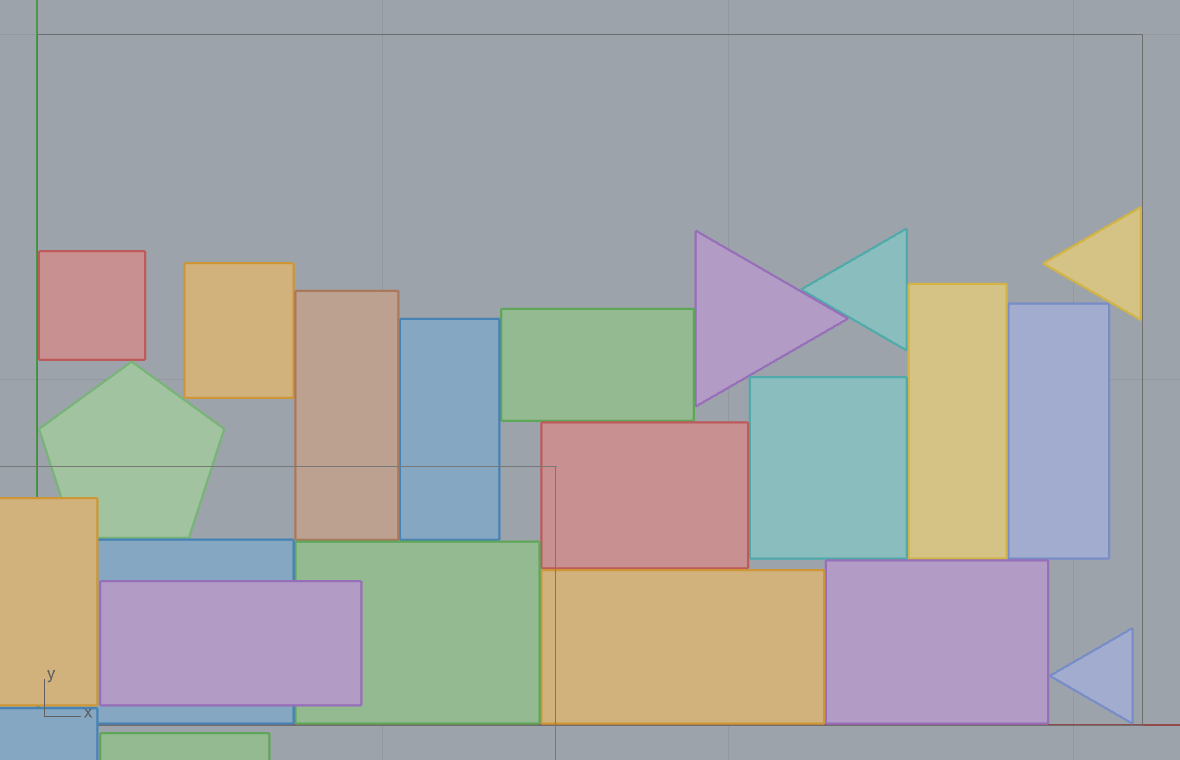
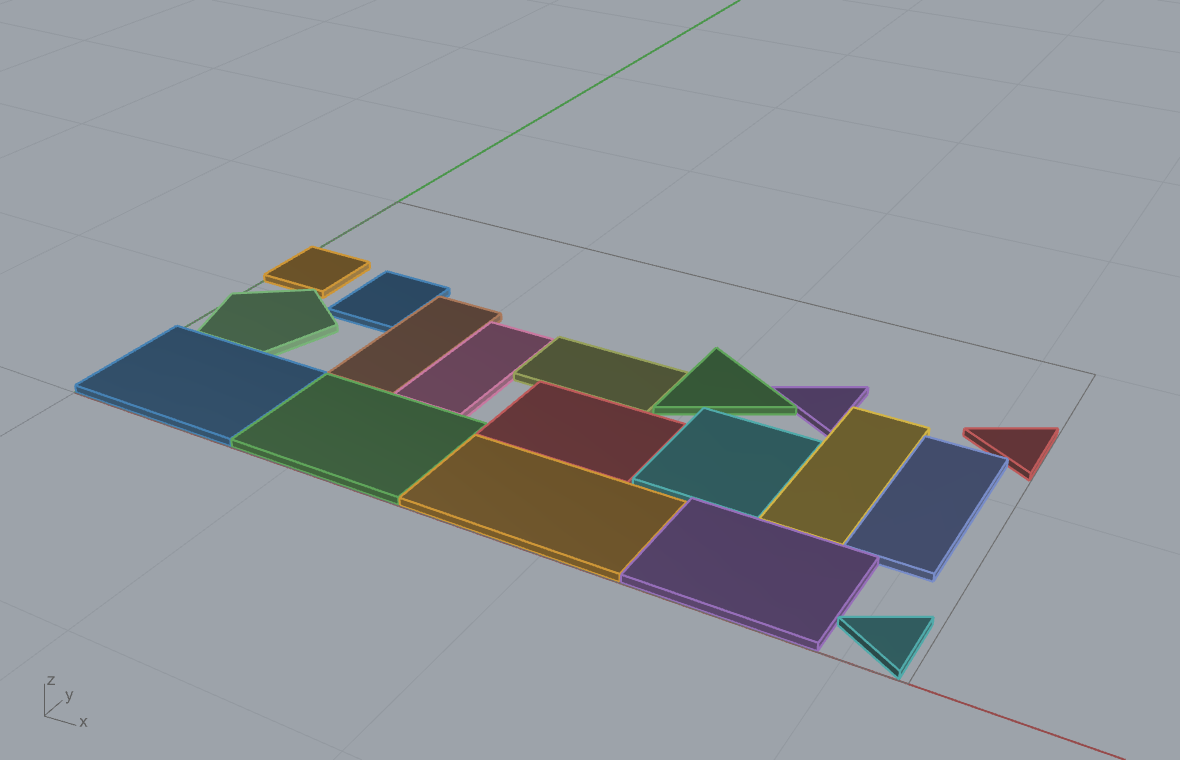
fix(examples): 2D opaque re-render + Kintsugi crack-interface display (post-restart)
After the system restart, addressed the user's feedback:
- 2D nest: re-measured the live FreeNestX output = 18/18 placed, total overlap
  area 0.0, boundary spill 0.0. The algorithm is CLEAN; the apparent overlaps in
  the old PNG were a translucent flat-tile render artifact. Re-rendered as opaque
  30 mm extruded slab tiles so it reads unambiguously (no fake overlap, all
  inside the 3.2x2.0 m sheet).
- Kintsugi: turned OFF auto-scale (natural network scale, base z=0). The "stacked
  on top of each other" look was Mesh Style 1 convex hulls interpenetrating at the
  concave fracture. Switched the display to the two fragment POINT CLOUDS (gold
  neck + blue body) which honestly show the fragments MEETING at the crack
  interface; re-ran Port mode at Mesh Style 3 (2/2 placed, verifier 0.707 STRONG).
  Updated .gh / .3dm / .png / README + galleries.

diff --git a/examples/14_kintsugi/README.md b/examples/14_kintsugi/README.md
@@ -1,6 +1,14 @@
 # Example 14 - Kintsugi fracture reassembly (Breaking Bad parity data, Port mode)
 
-> **Scale, units, position (corrected 2026-06-06):** MILLIMETERS. Reassembled vessel ~100-220 x 280 mm (the Breaking Bad shape is slender), base on z=0, centred in XY. Geometric tolerance 0.1 mm (= scan-noise floor); seam 1-3 mm; no kerf (restoration, not cutting). The Port-mode network runs in normalized space; the shipped result is scaled to vessel size for display. See `../../wiki/research/tolerances_dimensions_slm_roses.md`.
+> **Scale, units, display (corrected 2026-06-06):** AUTO-SCALE OFF. The Port-mode network works in
+> normalized space, so the reassembly is shown at the network's NATURAL scale (~0.24 x 0.24 x 1.0 units),
+> base on z=0, centred in XY. No per-fragment rescale (rescaling made the two fragments read as stacked
+> instead of meeting at the crack). DISPLAY = the two fragment POINT CLOUDS (1000 pts each) at the assembled
+> poses, coloured per fragment (gold neck + blue body): the Breaking Bad data is point clouds, so a mesh
+> display either interpenetrates (convex hull / Mesh Style 1) or is noisy (bbox-pulled / Mesh Style 3); the
+> point clouds are the honest display and clearly show the two fragments MEETING at the fracture interface.
+> Geometric tolerance 0.1 mm-class (scan-noise floor); no kerf (restoration, not cutting). See
+> `../../wiki/research/tolerances_dimensions_slm_roses.md`.
 
 
 Reassemble fractured fragments into the original solid by matching fracture surfaces. This is the

diff --git a/docs/results/RESULTS.md b/docs/results/RESULTS.md
@@ -24,7 +24,7 @@ basis in `../../wiki/research/tolerances_dimensions_slm_roses.md`.
 | Surfaces from a solid (mm) | Trencadis on the twist (mm) | Kintsugi reassembly (mm) |
 |---|---|---|
 | ![surf](../../examples/13_surface_mapping/13_surface_segments.png) | ![clad](../../examples/13_surface_mapping/13_surface_trencadis.png) | ![kintsugi](../../examples/14_kintsugi/14_kintsugi_result.png) |
-| 1.2x1.2x3.5 m monument, 6 surfaces (CGAL angle split) | 408 cladding shards, 4 mm grout | ~280 mm vessel, 2/2 placed, verifier 0.71 STRONG |
+| 1.2x1.2x3.5 m monument, 6 surfaces (CGAL angle split) | 408 cladding shards, 4 mm grout | 2 fragments meet at the crack (point-cloud display), verifier 0.71 STRONG |
 
 ## Do they work at their scales? Yes, and they are performant
 Verified live at each example's physical scale (doc units meters for site/quarry, millimetres for shop):
@@ -35,7 +35,7 @@ Verified live at each example's physical scale (doc units meters for site/quarry
 | 3D quarry block | 3.0x1.5x1.5 m | 12/12 packed | < 0.1 s |
 | Trencadis mosaic | 1100 mm | 100/100 placed | ~0.26 s |
 | Surface segmentation | 1.2x1.2x3.5 m | 6 surfaces | ~0.01 s |
-| Kintsugi (Port mode) | ~280 mm | 2/2, verifier 0.71 | ~30 s (GPU diffusion, by design) |
+| Kintsugi (Port mode) | natural (auto-scale off) | 2/2 fragments joined at crack, verifier 0.71 | ~30 s (GPU diffusion, by design) |
 
 Performance is scale-robust: the NFP / Clipper cost is driven by vertex count, not coordinate magnitude,
 and the integer scaling is int64-safe at both metre and millimetre scale near the origin. The component

diff --git a/examples/README.md b/examples/README.md
@@ -26,7 +26,7 @@ fresh `data/` link. Open them in Rhino 8 + Grasshopper with the Frahan `.gha` de
 | `11_pack3d/` | 3D block packing (Block Pack Tree, Kim 2025 guillotine) | quarry block subdivision, saw-cuttable | synthetic elements (in the .gh); METERS, block 3.0x1.5x1.5 m |
 | `12_trencadis/` | Trencadis mosaic (Catalog Pack, CVD-Lloyd + Hungarian) | broken-tile cladding panel | synthetic shards (in the .gh); MILLIMETERS, panel ~1100 mm |
 | `13_surface_mapping/` | twisted block -> CGAL split-by-angle -> Trencadis cladding | surfaces from a solid + surface mosaic | synthetic twisted monument (in the .gh); MILLIMETERS, 1.2x1.2x3.5 m |
-| `14_kintsugi/` | fractured-vessel reassembly (PuzzleFusion++ Port mode) | restoration on Breaking Bad parity data | `14_kintsugi/data/bb_sample_*.bin`; MILLIMETERS, vessel ~280 mm tall |
+| `14_kintsugi/` | fractured-vessel reassembly (PuzzleFusion++ Port mode) | restoration on Breaking Bad parity data | `14_kintsugi/data/bb_sample_*.bin`; natural network scale (auto-scale off), point-cloud display |
 
 ## Digital-fabrication entrypoint renders (examples 10-14)
 Built and solved live, then captured. Each is at correct per-application physical scale (meters for